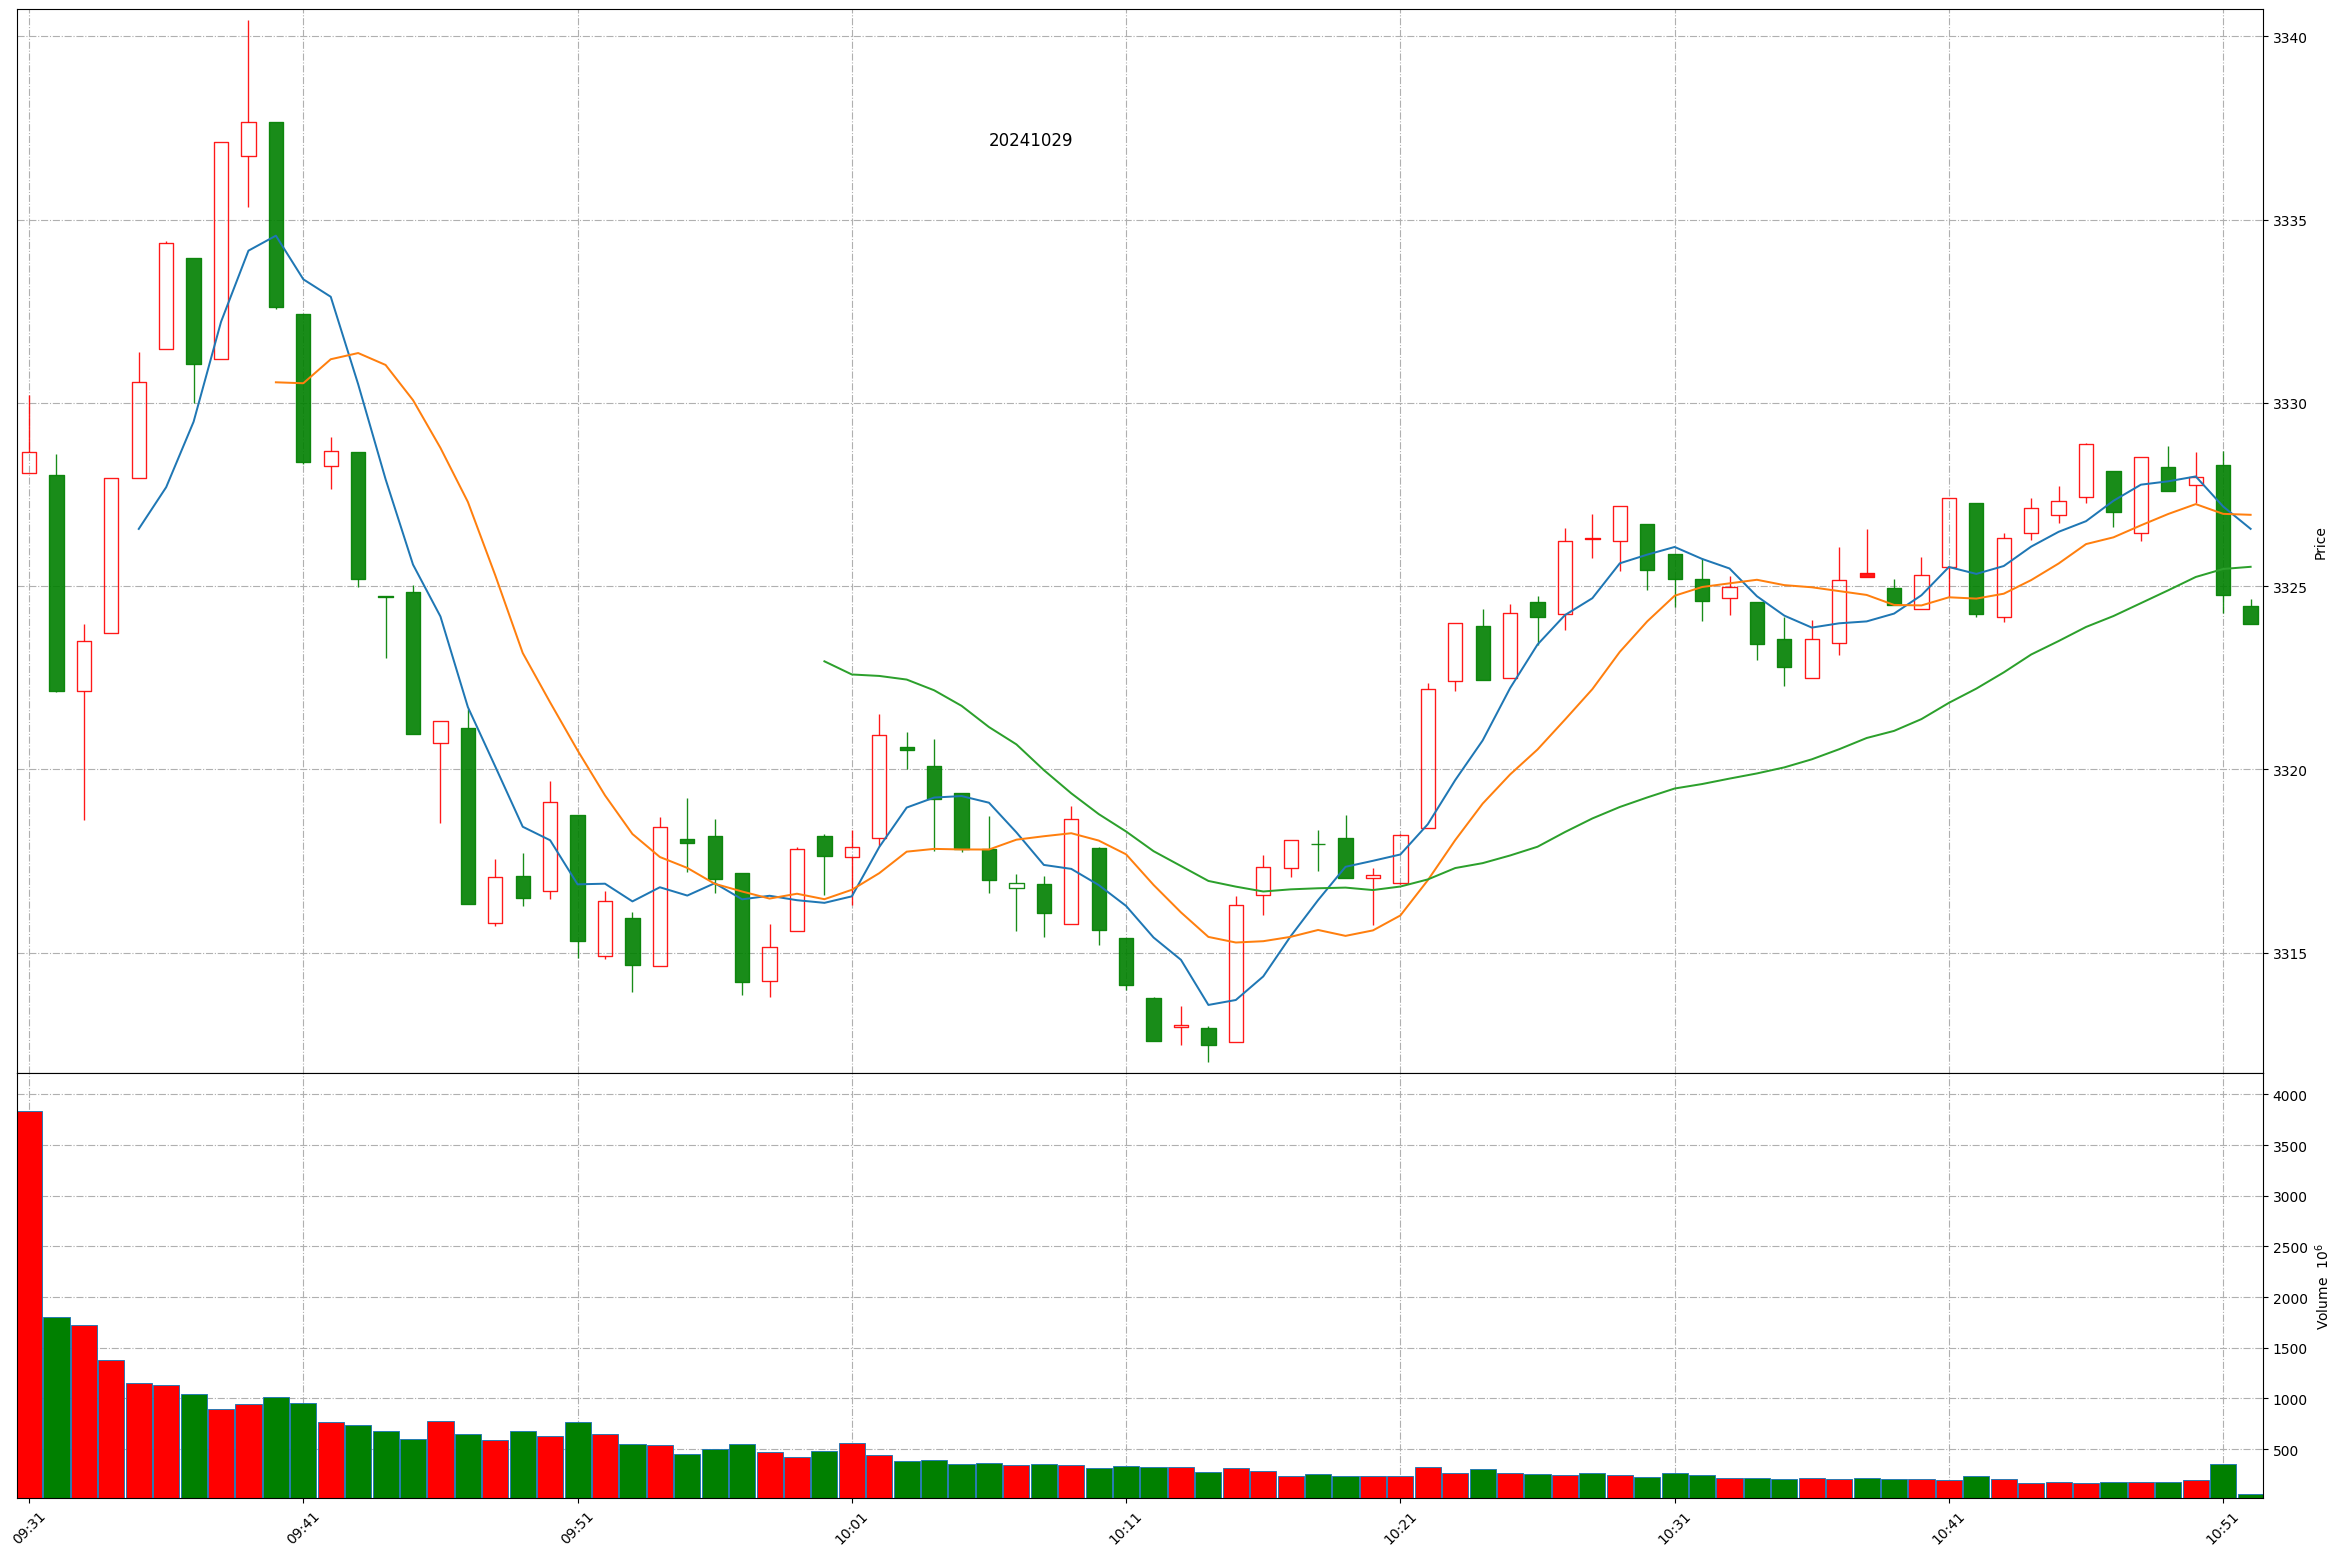
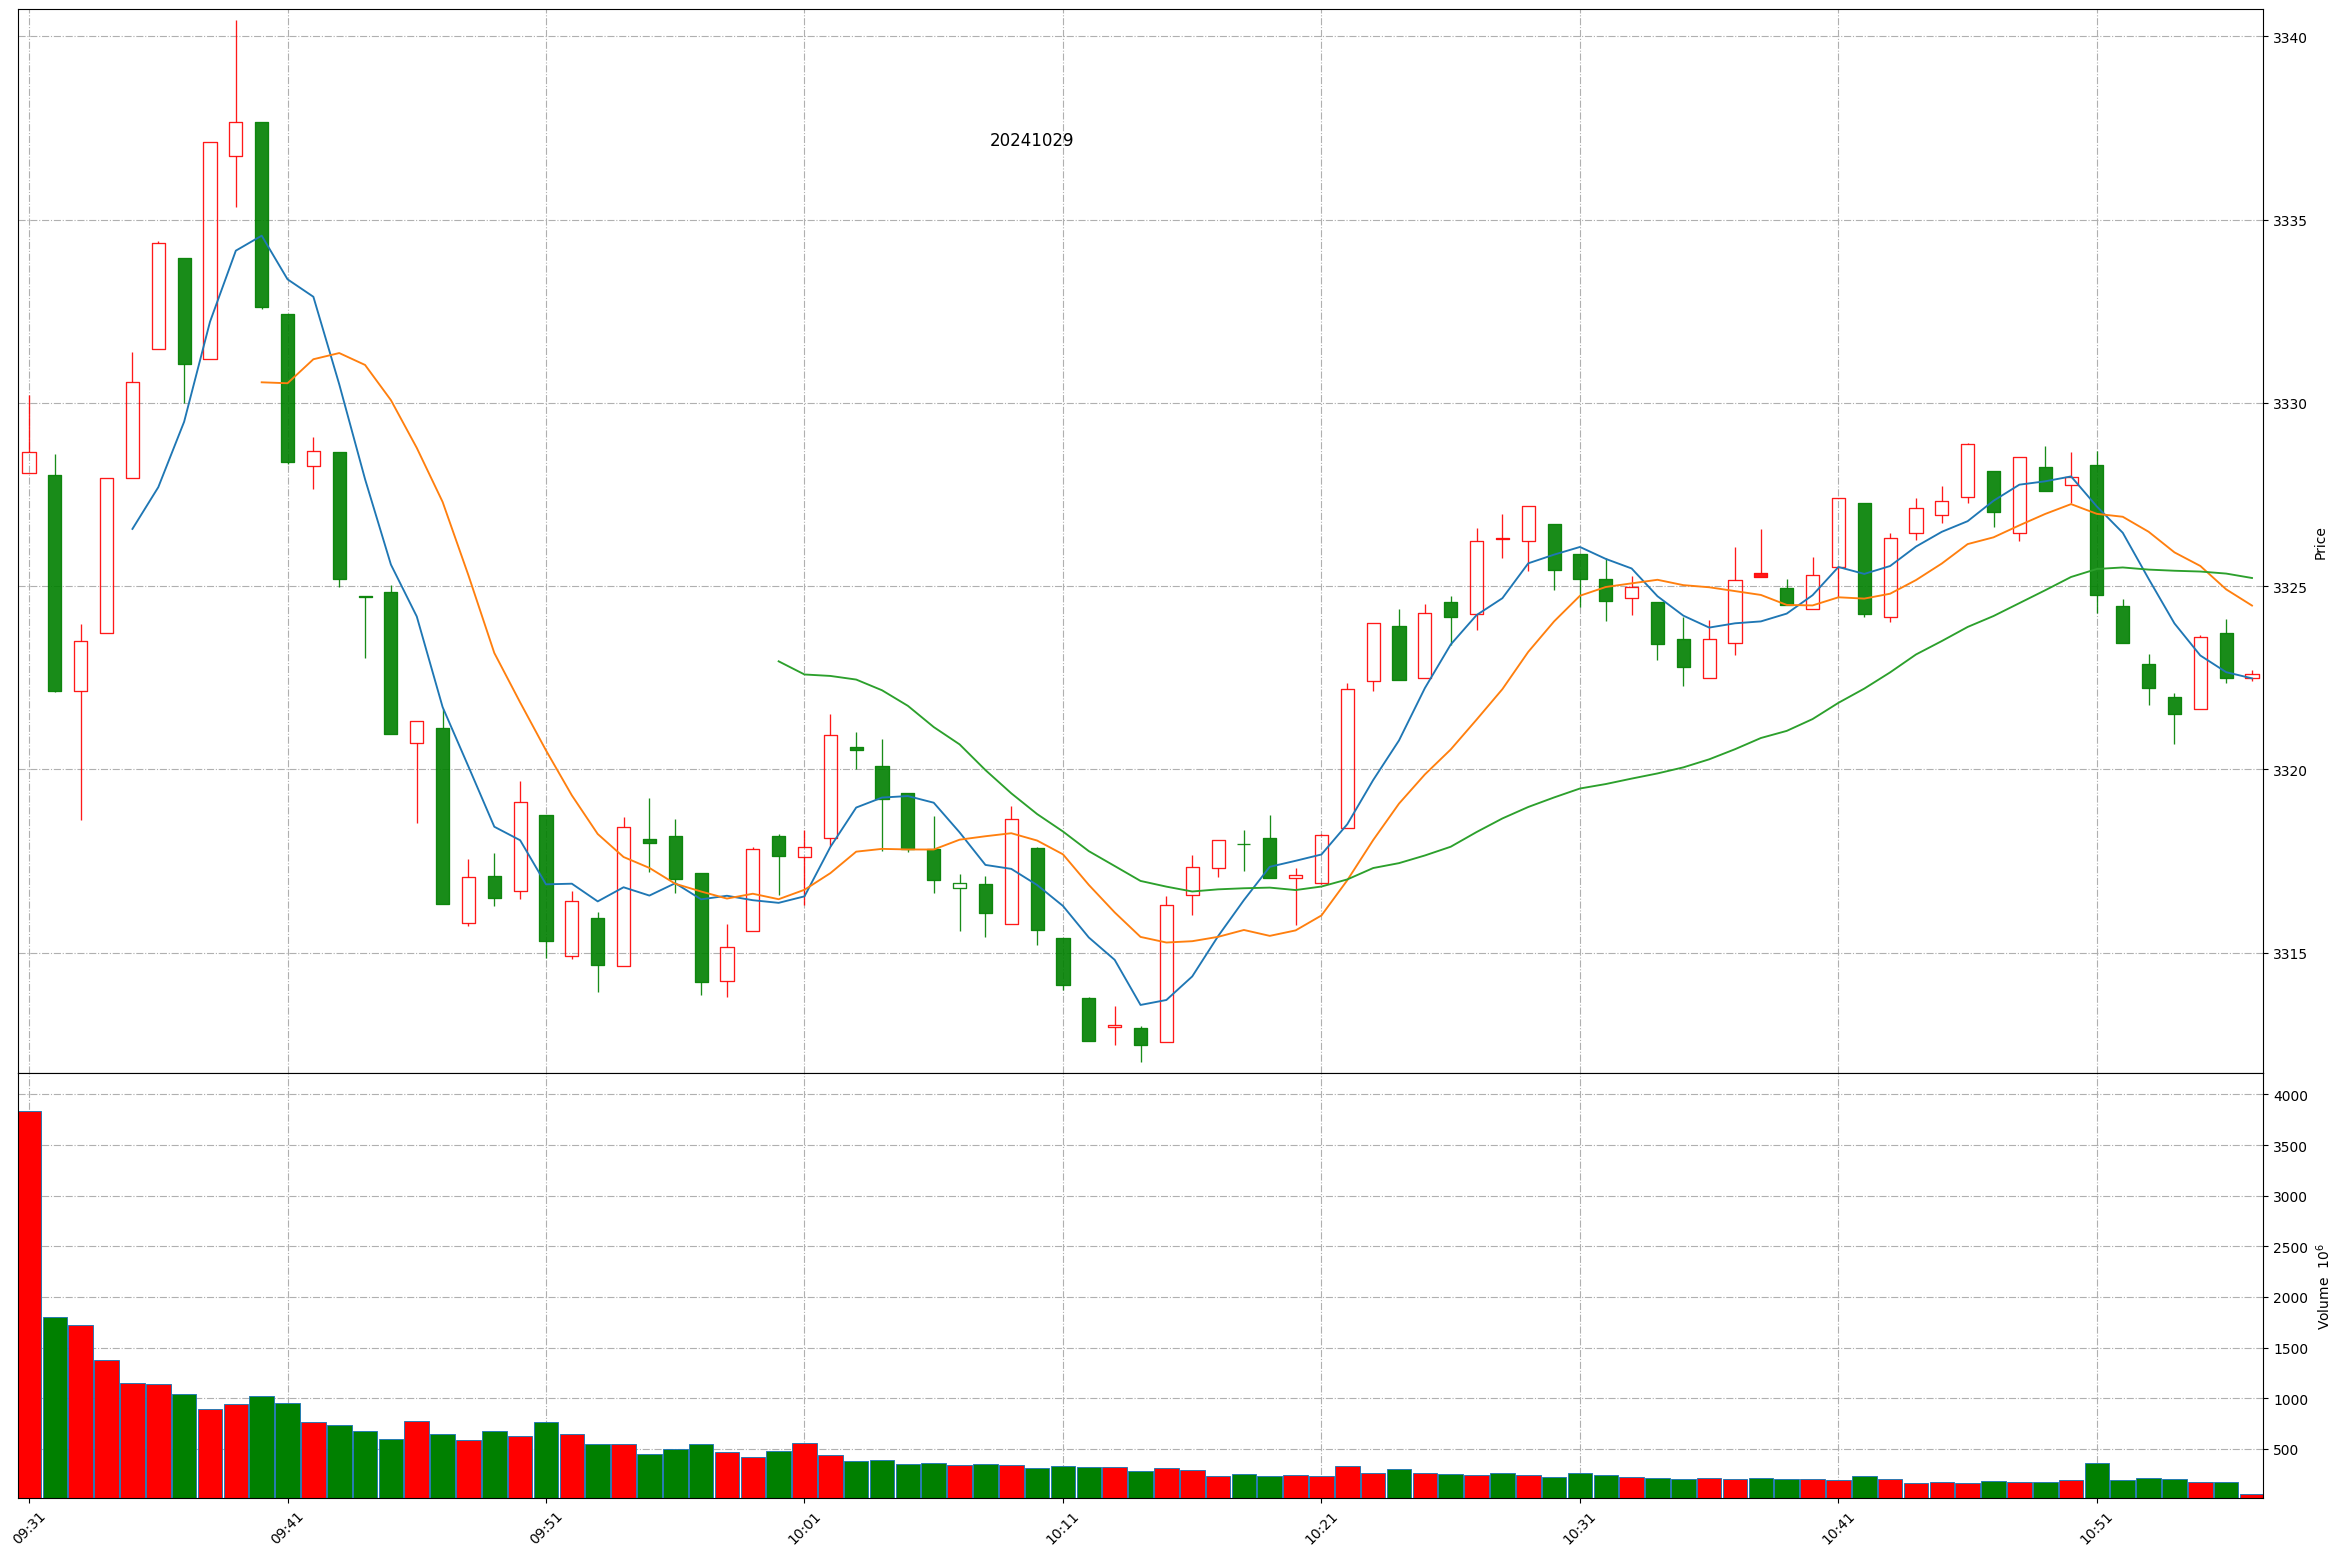
Github action update at 2024-10-29 10:56:31.

diff --git a/README.md b/README.md
@@ -1,11 +1,11 @@
 
 # Daily-A-share-market-quotes 每日 A 股指数（5min 更新）- 20241029
 
-### 上证指数 20241029 10:51
+### 上证指数 20241029 10:56
 ![](./fig/2024/10/20241029-sh000001.png)
 
-### 深证成指 20241029 10:51
+### 深证成指 20241029 10:56
 ![](./fig/2024/10/20241029-sz399001.png)
 
-### 北证50 20241029 10:51
+### 北证50 20241029 10:56
 ![](./fig/2024/10/20241029-bj899050.png)
